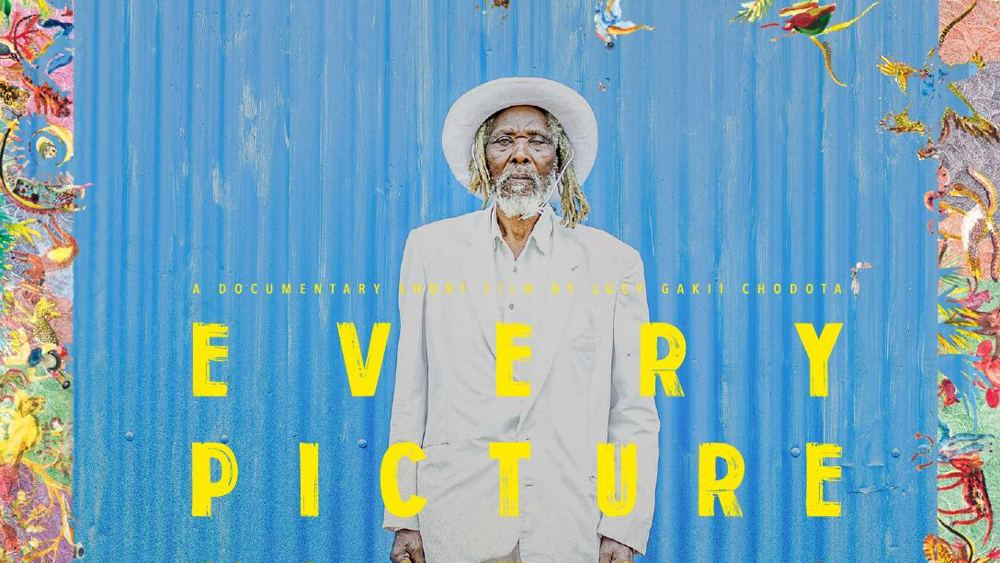
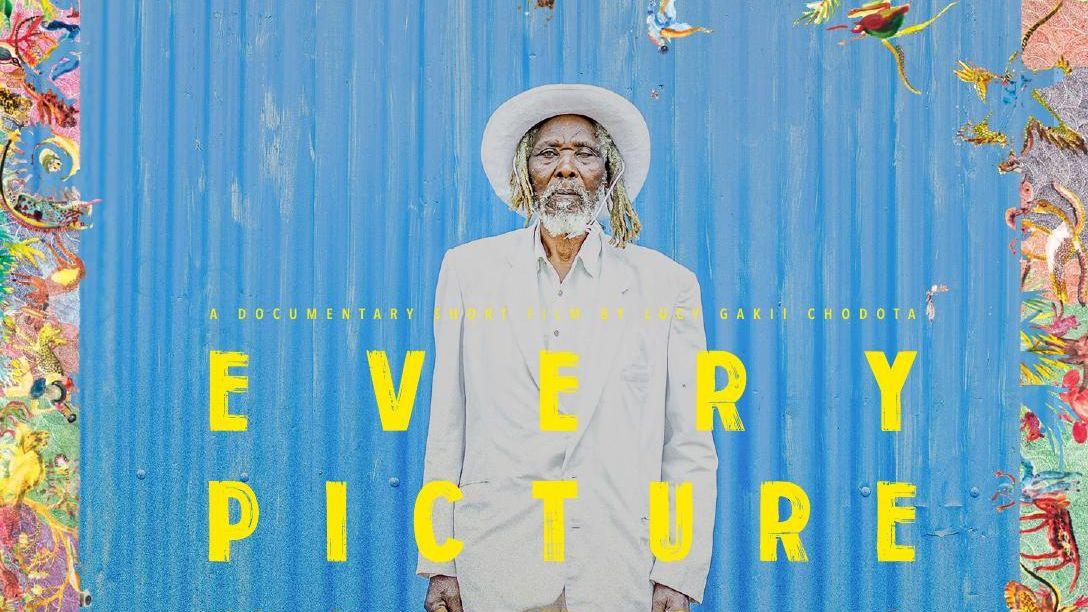
Add files via upload

Changed region(s): [[0.0, 0.4227, 0.031, 0.4529]]

diff --git a/js/app.js b/js/app.js
@@ -29,9 +29,12 @@ var V={
 home:function(){return'<div class="hero"><img src="'+SITE.hero+'" alt="Mark Ayabei, filmmaker" fetchpriority="high"><div class="ht"><h1>Mark Ayabei</h1><p class="r1">Film Maker</p><p class="r2">Cinematographer | Producer | Director</p></div></div><div class="w"><div class="ps ft">'+FEAT.map(poster).join('')+'</div><div class="lead"><h2>Stories rooted in Africa, told for the world.</h2><p class="mu">'+SITE.intro+'</p></div>'+((SITE.reel||SITE.reelVimeo)?player(SITE.reel,'','--t1','',SITE.reelVimeo,true):'')+
 '<div class="sec"><div class="sh"><h2>Selected work</h2><a href="#categories">All categories →</a></div><div class="ps">'+K.filter(function(k){return FEAT.indexOf(k)<0}).map(poster).join('')+'</div></div>'+
 '<div class="sec"><div class="sh"><h2>Special projects</h2><a href="#special-projects">View all →</a></div><div class="two">'+SP.slice(0,2).map(function(s,i){return'<a class="th" href="#special-projects"><div class="im" style="background:var(--t'+(i+2)+')"></div><p>'+s[0]+'</p><span class="sm mu">'+s[2]+'</span></a>'}).join('')+'</div></div></div>'},
-film:function(k){var f=FILMS[k],i=K.indexOf(k),p=K[(i+K.length-1)%K.length],n=K[(i+1)%K.length];return'<div class="w pg"><span class="cap">'+[f.type,f.y,f.sub].filter(Boolean).join(' · ')+'</span><h1 class="t">'+f.t+'</h1>'+((f.src||f.vimeo)?player(f.src,'',f.tone,'f16',f.vimeo,false,f.poster):(f.poster?'<img class="fp" src="'+f.poster+'" alt="'+f.t+' poster">':''))+
-((f.role||f.run)?'<div class="fm"><h2>About the film</h2><div>'+'<div class="meta sm">'+(f.role?'<div><span class="mu">Role</span>'+f.role+'</div>':'')+(f.run?'<div><span class="mu">Runtime</span>'+f.run+'</div>':'')+'<div><span class="mu">Country</span>Kenya</div></div></div></div>':'')+
-(f.aw.length?'<div class="fm" style="margin-top:0"><h2>Awards &amp; selections</h2><div class="tl sm" style="margin:0">'+f.aw.map(function(a){return'<div><span class="mu">'+a[0]+'</span><span>'+a[1]+' · '+a[2]+'</span></div>'}).join('')+'</div></div>':'')+
+film:function(k){var f=FILMS[k],i=K.indexOf(k),p=K[(i+K.length-1)%K.length],n=K[(i+1)%K.length],vid=f.src||f.vimeo,meta=[f.role,f.run].filter(Boolean).join(' · '),cls='fd'+(f.poster?'':' nopo')+(f.aw.length?'':' noaw')+(vid?'':' novid');return'<div class="w pg"><div class="'+cls+'">'+
+(vid?'<div class="fv"><p class="cap fvl">Trailer</p>'+player(f.src,'',f.tone,'f16',f.vimeo,false,f.tile||f.poster)+'</div>':(f.tile?'<div class="ft2"><div class="pl f16" style="--tone:var('+f.tone+')"><img src="'+f.tile+'" alt="'+f.t+'"></div></div>':''))+
+'<div class="fx"><span class="cap">'+[f.type,f.y].filter(Boolean).join(' · ')+'</span><h1 class="t">'+f.t+'</h1>'+(f.sub?'<p class="fs">'+f.sub+'</p>':'')+(meta?'<p class="fro">'+meta+'</p>':'')+'</div>'+
+(f.poster?'<button type="button" class="fpb" data-poster="'+f.poster+'" data-title="'+f.t+'" aria-label="View '+f.t+' poster full size"><img src="'+f.poster+'" alt=""><span class="sm mu">Click to enlarge</span></button>':'')+
+(f.aw.length?'<div class="fa"><p class="cap">Awards &amp; selections</p><div class="tl sm" style="margin-top:8px">'+f.aw.map(function(a){return'<div><span class="mu">'+a[0]+'</span><span>'+a[1]+' · '+a[2]+'</span></div>'}).join('')+'</div></div>':'')+
+'</div>'+
 (f.pr.length?'<div class="fm" style="margin-top:0"><h2>Press</h2><div class="pr">'+f.pr.map(function(q){return'<p>“'+q[0]+'” – <a class="ln" href="#'+k+'">'+q[1]+'</a></p>'}).join('')+'</div></div>':'')+
 '<div class="pn"><a href="#'+p+'"><small>← Previous</small>'+FILMS[p].t+'</a><a href="#'+n+'" style="text-align:right"><small>Next →</small>'+FILMS[n].t+'</a></div></div>'},
 categories:function(h){var G=CF[h]||CF.categories;
@@ -49,10 +52,11 @@ closeMenu();scrollTo(0,0);
 document.title='Mark Ayabei – Kenyan Filmmaker'+(has(FILMS,h)?' | '+FILMS[h].t:'');
 wire(v);if(first){first=false}else{var hd=v.querySelector('h1');if(hd){hd.setAttribute('tabindex','-1');hd.focus({preventScroll:true})}}
 var cf=$('#cf');if(cf&&!SITE.formAction)cf.onsubmit=function(e){e.preventDefault();var d=new FormData(cf);location.href='mailto:'+SITE.email+'?subject='+encodeURIComponent('Enquiry from '+d.get('name'))+'&body='+encodeURIComponent(d.get('message')+'\n\n'+d.get('email'))}}
-var lb=document.createElement('div');lb.className='lb2';lb.hidden=true;lb.setAttribute('role','dialog');lb.setAttribute('aria-modal','true');lb.setAttribute('aria-label','Video');var last=null;lb.innerHTML='<button class="x" aria-label="Close video">Close</button><div class="box"></div>';document.body.appendChild(lb);
-function closeLb(){lb.hidden=true;lb.querySelector('.box').innerHTML='';if(last){last.focus();last=null}}
+var lb=document.createElement('div');lb.className='lb2';lb.hidden=true;lb.setAttribute('role','dialog');lb.setAttribute('aria-modal','true');lb.setAttribute('aria-label','Video');var last=null;lb.innerHTML='<button class="x" aria-label="Close">Close</button><div class="box"></div>';document.body.appendChild(lb);
+function closeLb(){lb.hidden=true;document.documentElement.style.overflow='';var bx=lb.querySelector('.box');bx.className='box';bx.innerHTML='';if(last){last.focus();last=null}}
 lb.addEventListener('click',function(e){if(e.target===lb||e.target.closest('.x'))closeLb()});
 addEventListener('keydown',function(e){if(e.key==='Escape')closeLb()});
-document.addEventListener('click',function(e){var a=e.target.closest('.th[data-v],.th[data-s]');if(!a)return;e.preventDefault();last=a;var v=a.dataset.v,m=a.dataset.s;lb.querySelector('.box').innerHTML=v?vim(v,false,true):'<video src="'+m+'" controls autoplay playsinline></video>';lb.hidden=false;lb.querySelector('.x').focus()});
+document.addEventListener('click',function(e){var a=e.target.closest('.th[data-v],.th[data-s]');if(!a)return;e.preventDefault();last=a;var v=a.dataset.v,m=a.dataset.s;lb.querySelector('.box').innerHTML=v?vim(v,false,true):'<video src="'+m+'" controls autoplay playsinline></video>';lb.setAttribute('aria-label','Video');document.documentElement.style.overflow='hidden';lb.hidden=false;lb.querySelector('.x').focus()});
+document.addEventListener('click',function(e){var b=e.target.closest('[data-poster]');if(!b)return;e.preventDefault();last=b;var bx=lb.querySelector('.box'),t=b.dataset.title;bx.className='box pbox';bx.innerHTML='<img src="'+b.dataset.poster+'" alt="'+t+' poster"><p>'+t+' · Poster</p>';lb.setAttribute('aria-label','Poster');document.documentElement.style.overflow='hidden';lb.hidden=false;lb.querySelector('.x').focus()});
 addEventListener('hashchange',route);route();
 })();

diff --git a/css/styles.css b/css/styles.css
@@ -156,3 +156,42 @@ h1:focus{outline:none}
 
 .ft{padding-top:clamp(20px,3vw,36px)}
 .fp{display:block;width:100%;max-width:460px;height:auto}
+
+.fs{color:var(--mu);font-size:clamp(14px,1.3vw,17px)}
+.fro{margin-top:10px;font-size:clamp(14px,1.2vw,16px)}
+.fpb{display:block;width:clamp(72px,10vw,148px);padding:0;border:0;background:none;cursor:zoom-in;text-align:center;font:inherit;color:inherit}
+.fpb img{display:block;width:100%;height:auto;box-shadow:0 0 0 1px var(--ln);transition:transform .35s}
+.fpb:hover img{transform:translateY(-3px)}
+.fpb span{display:block;margin-top:8px}
+.pl img{position:absolute;inset:0;width:100%;height:100%;object-fit:cover}
+.pg .pl video{object-fit:contain;background:#000}
+.lb2 .box.pbox{width:auto;max-width:100%;aspect-ratio:auto;background:none;display:grid;justify-items:center;gap:12px}
+.lb2 .pbox img{display:block;max-width:100%;max-height:calc(100vh - 150px);max-height:calc(100dvh - 150px);width:auto;height:auto;object-fit:contain;box-shadow:0 10px 40px rgba(0,0,0,.5)}
+.lb2 .pbox p{color:#fff;font-size:13px;letter-spacing:.04em;text-align:center}
+@media(max-height:520px){.pg .pl.f16{aspect-ratio:auto;height:62vh}.lb2 .pbox img{max-height:calc(100vh - 90px);max-height:calc(100dvh - 90px)}}
+
+
+/* film page */
+.fd{display:grid;grid-template-columns:minmax(0,1fr) auto;column-gap:clamp(16px,4vw,56px);row-gap:clamp(16px,2.4vw,28px);align-items:start}
+.fd .fv,.fd .ft2,.fd .fa{grid-column:1/-1}
+.fd .fx{grid-column:1}.fd .fpb{grid-column:2}
+.nopo .fx{grid-column:1/-1}
+.fx h1.t{font-size:clamp(26px,3vw,46px);margin:6px 0 4px}
+.fvl{display:none}
+@media(min-width:1000px){
+.fd{grid-template-columns:auto minmax(0,1fr) minmax(0,1.25fr);grid-template-rows:auto 1fr;column-gap:clamp(28px,4vw,64px);row-gap:28px}
+.fd .fpb{grid-column:1;grid-row:1/3;width:fit-content}
+.fd .fpb img{width:auto;max-width:100%;height:clamp(420px,calc(100vh - 230px),860px);height:clamp(420px,calc(100dvh - 230px),860px)}
+.fd .fx{grid-column:2/4;grid-row:1}
+.fd .fa{grid-column:2;grid-row:2}
+.fd .fv{grid-column:3;grid-row:2}
+.fd .ft2{display:none}
+.fvl{display:block;margin-bottom:8px}
+.noaw .fv{grid-column:2/4}.novid .fa{grid-column:2/4}
+.fd.nopo{grid-template-columns:minmax(0,1fr) minmax(0,1.25fr)}
+.nopo .fx{grid-column:1/3}.nopo .fa{grid-column:1}.nopo .fv{grid-column:2}
+.nopo.noaw .fv{grid-column:1/3}.nopo.novid .fa{grid-column:1/3}
+.fd .fa,.fd .fv{align-self:start}
+}
+
+@media(min-width:1000px){.pn a{font-size:20px}}
